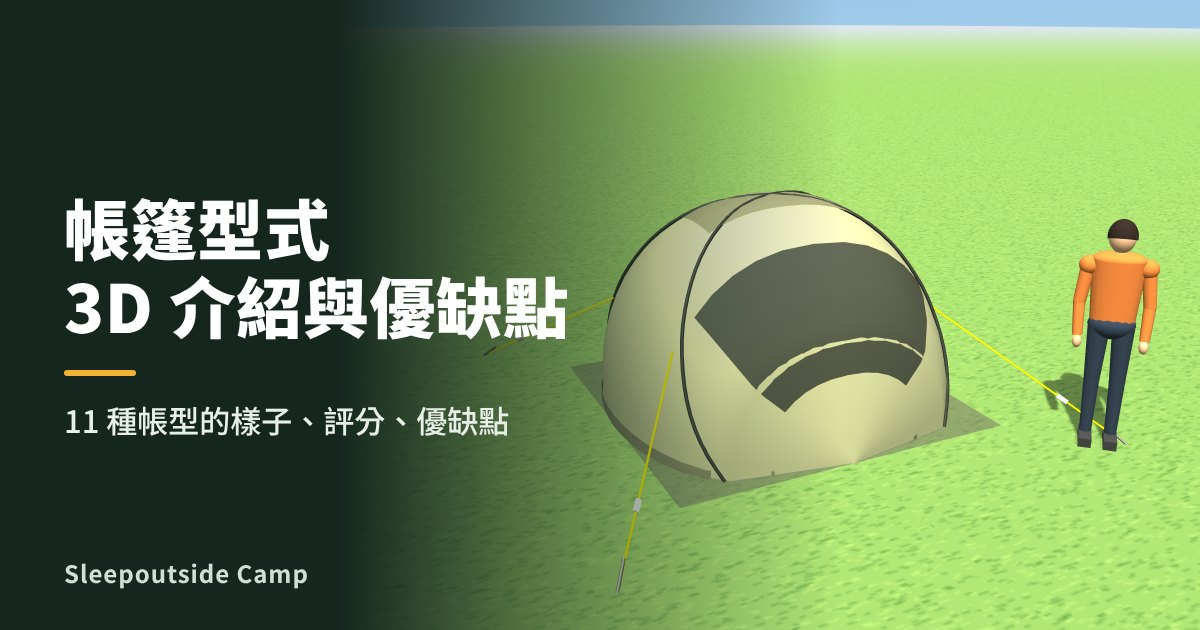
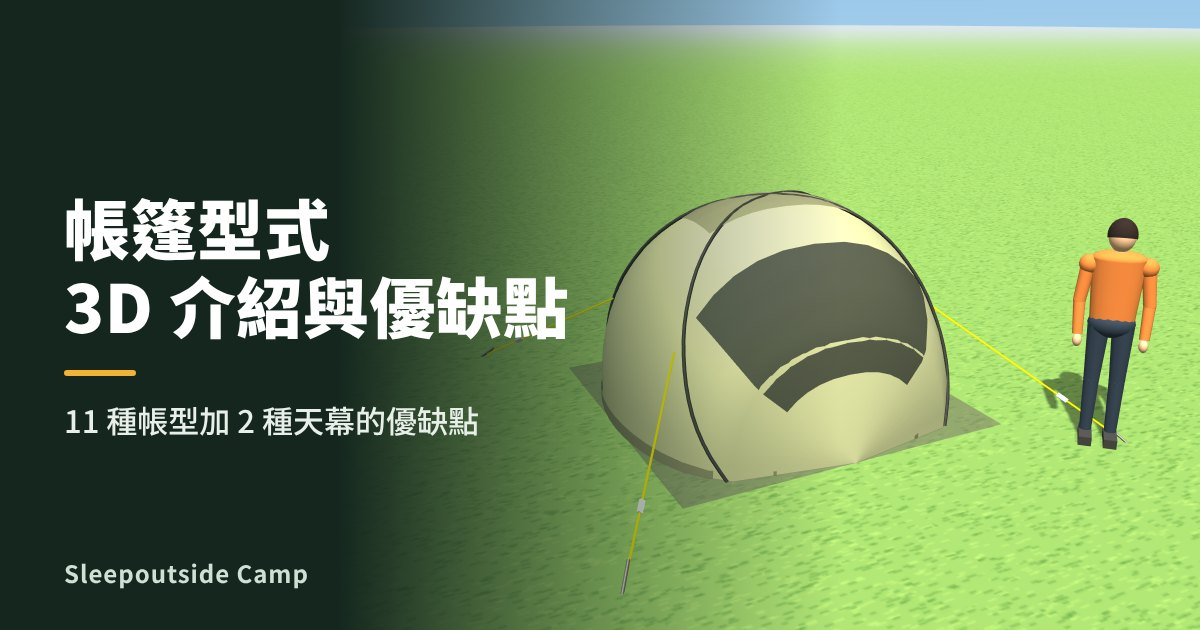
Add two tarp types to the types page and carry them into the simulator
Claude-Session: https://claude.ai/code/session_014sz8NWJGfTpPNJeVKTkoDY

diff --git a/types.html b/types.html
@@ -4,13 +4,13 @@
 <meta charset="utf-8">
 <meta name="viewport" content="width=device-width, initial-scale=1">
 <meta name="author" content="Sleepoutside Camp">
-<meta name="description" content="圓頂帳、隧道帳、一房一廳、神殿帳、充氣帳……11 種帳型的 3D 樣子、評分和優缺點一次看。">
+<meta name="description" content="圓頂帳、隧道帳、一房一廳、神殿帳、充氣帳……11 種帳型加 2 種天幕的 3D 樣子、評分和優缺點一次看。">
 <link rel="canonical" href="https://sleepoutside.github.io/tent-planner/types.html">
 <meta property="og:type" content="website">
 <meta property="og:site_name" content="Sleepoutside Camp">
 <meta property="og:locale" content="zh_TW">
 <meta property="og:title" content="帳篷型式 3D 介紹與優缺點">
-<meta property="og:description" content="圓頂帳、隧道帳、一房一廳、神殿帳、充氣帳……11 種帳型的 3D 樣子、評分和優缺點一次看。">
+<meta property="og:description" content="圓頂帳、隧道帳、一房一廳、神殿帳、充氣帳……11 種帳型加 2 種天幕的 3D 樣子、評分和優缺點一次看。">
 <meta property="og:url" content="https://sleepoutside.github.io/tent-planner/types.html">
 <meta property="og:image" content="https://sleepoutside.github.io/tent-planner/og-types.jpg">
 <meta property="og:image:width" content="1200">
@@ -84,7 +84,7 @@
 <body>
 <header>
   <h1>帳篷型式 3D 介紹</h1>
-  <p>十一種常見帳型的概念造型與優缺點，拖曳畫面可以轉著看。</p>
+  <p>十一種常見帳型和兩種天幕的概念造型與優缺點，拖曳畫面可以轉著看。</p>
   <nav class="navcards" aria-label="其他頁面"><a href="index.html">搭設模擬<small>放不放得下</small></a><a href="fire.html">焚火安全<small>距離與風向</small></a><a href="sleep.html">帳內睡鋪<small>睡得下幾人</small></a></nav>
 </header>
 <main>
@@ -175,7 +175,17 @@ var TYPES=[
   size:'約 250 × 110 × 高 100 cm（含前庭）',cap:'1 人',time:'5–10 分鐘',crew:'1 人',r:[4,1,4,5,3,3],
   pros:['重量輕、收納小，可以背著走，也適合機車或單車旅行','佔地小，找營地容易','低矮的流線外型，抗風好'],
   cons:['裡面只能坐著或躺著','裝備多半要放在前庭','輕量布料比較薄，使用時要小心','內外帳距離近，容易結露'],
-  fit:'登山、徒步、單車或機車旅行等需要自己背負裝備的人。'}
+  fit:'登山、徒步、單車或機車旅行等需要自己背負裝備的人。'},
+ {id:'tarpHexa',name:'蝶形／六角天幕',lead:'兩支主柱撐起一片六角形的布，線條最好看的遮蔽。',m:{L:440,W:420,H:240,shape:'hexa',tarp:true,color:0xc7a56c},
+  size:'約 440 × 420 cm，主柱高 240 cm',cap:'遮蔽 4–6 人',time:'10–15 分鐘',crew:'1–2 人',r:[4,2,3,5,4,5],
+  pros:['只要兩支主柱，零件少、收納小','曲線邊緣讓布面繃得緊，不容易積水','四面通透，夏天最涼快','可以壓低一側擋風或擋西曬'],
+  cons:['有效遮蔽面積比同尺寸的方形天幕小','營繩往外拉得遠，實際佔地比布面大很多','側面沒有遮擋，斜雨和冷風擋不住','一個人立主柱需要一點技巧'],
+  fit:'帳篷沒有客廳、想加一塊遮陽遮雨空間，又在意收納體積的人。'},
+ {id:'tarpRect',name:'方形天幕',lead:'長方形的布配上四到六支營柱，遮蔽面積最實在。',m:{L:400,W:300,H:220,shape:'rect',tarp:true,color:0xd9c7a3},
+  size:'約 400 × 300 cm，主柱高 220 cm',cap:'遮蔽 4–8 人',time:'15–20 分鐘',crew:'2 人',r:[3,4,2,4,4,5],
+  pros:['同樣的布面，遮蔽面積比蝶形大','四個角都有營柱，邊緣高度夠，人可以站著走動','搭法變化多：可以放下一側當牆，或搭成各種斜面','容易和帳篷、車子連接'],
+  cons:['營柱和營繩比較多，搭設較花時間','布面平，沒拉好容易積水，下雨要壓低一角排水','受風面積大，強風時要多加營繩或直接收起來','零件多，收納體積比蝶形大'],
+  fit:'人數多、需要一個大客廳，或想把天幕和帳篷、車子連在一起用的人。'}
 ];
 
 /* ---------- builders shared with the simulator (copied from index.html by tools/build.py) ---------- */
@@ -517,6 +527,49 @@ function car(type){
   bx(.03,.11,.42,std(0xf4f4f0),hl+.05,.4,0); bx(.03,.11,.42,std(0xf4f4f0),-hl-.05,.4,0);
   return g;
 }
+function buildTarp1(){
+  while(tarpG.children.length){ var o=tarpG.children[0]; tarpG.remove(o); dispose(o); }
+  tarpMeshes=[]; tarpPegs=[]; tarpPlan=[]; tarpOutMat=null;
+  var t=S.tarp; if(!t){ redraw(); return; }
+  var L=t.L/100,W=t.W/100,hF=t.H/100,hR=(t.H2||t.H)/100,hl=L/2,hw=W/2,hexa=t.shape==='hexa',cxp=hexa?L*.22:hl,hc=hexa?Math.min(1.2,hR*.55):Math.min(1.6,hR*.75),sag=hexa?.2:.12,i;
+  tarpTop=Math.max(hF,hR);
+  function add(o){ tarpG.add(o); return o; }
+  function hp(x){ return hR+(hF-hR)*(x+hl)/L; }
+  function wh(x){ var a=Math.abs(x); return a<=cxp?hw:Math.max(.001,hw*(hl-a)/(hl-cxp)); }
+  function he(x){ var a=Math.abs(x); if(!hexa||a<=cxp) return hc; var k=(a-cxp)/(hl-cxp); return hc+(hp(x)-hc)*k; }
+  var mat=new THREE.MeshStandardMaterial({color:t.color,roughness:.9,side:THREE.DoubleSide});
+  var cloth=add(gridMesh(function(u,v){
+    var x=(u-.5)*L,w=wh(x),z=(v*2-1)*w,rd=hp(x)-sag*(1-Math.pow(2*x/L,2)),ed=he(x);
+    return P(x,rd-(rd-ed)*Math.pow(Math.abs(z)/Math.max(w,.001),1.15),z);
+  },28,14,mat)); cloth.castShadow=true; tarpMeshes.push(cloth);
+  var poleMat=std(0x50544f,{metalness:.5,roughness:.45}),ropes=[];
+  [[hl,hF],[-hl,hR]].forEach(function(p){
+    var sx=p[0]>0?1:-1,h=p[1]; add(limb(P(p[0],0,0),P(p[0],h+.06,0),.017,.017,poleMat,8)).castShadow=true;
+    [1,-1].forEach(function(sz){ ropes.push(P(p[0],h,0),P(p[0]+sx*.62*h,0,sz*.62*h)); });
+  });
+  [[1,1],[1,-1],[-1,1],[-1,-1]].forEach(function(c){
+    var cx=c[0]*cxp,cz=c[1]*hw,dx=hexa?c[0]*.45:c[0]*.707,dz=hexa?c[1]*.89:c[1]*.707,d=hc*1.05;
+    if(!hexa) add(limb(P(cx,0,cz),P(cx,hc+.05,cz),.014,.014,poleMat,8)).castShadow=true;
+    ropes.push(P(cx,hc,cz),P(cx+dx*d,0,cz+dz*d));
+  });
+  for(i=0;i<ropes.length;i+=2){
+    var ra=ropes[i],rb=ropes[i+1],ent={p:P(rb.x,0,rb.z),mat:null,disc:null};
+    if(S.ropes){
+      var gp=P(rb.x,.035,rb.z),dir=gp.clone().sub(ra).normalize();
+      ent.mat=new THREE.MeshStandardMaterial({color:0xffb300,emissive:0x7a5200,roughness:.6});
+      add(limb(ra,gp,.008,.008,ent.mat,6));
+      add(limb(gp.clone().addScaledVector(dir,.1),gp.clone().addScaledVector(dir,-.1).setY(.11),.011,.011,std(0xd8d8d2,{metalness:.6,roughness:.4}),6));
+      ent.disc=new THREE.MeshBasicMaterial({color:0xffb300,transparent:true,opacity:.9});
+      var dc=add(new THREE.Mesh(new THREE.RingGeometry(.05,.085,16),ent.disc)); dc.rotation.x=-Math.PI/2; dc.position.set(rb.x,.017,rb.z);
+    }
+    tarpPegs.push(ent);
+  }
+  tarpPlan=hexa?[P(hl,0,0),P(cxp,0,hw),P(-cxp,0,hw),P(-hl,0,0),P(-cxp,0,-hw),P(cxp,0,-hw)]:[P(hl,0,hw),P(-hl,0,hw),P(-hl,0,-hw),P(hl,0,-hw)];
+  tarpOutMat=new THREE.LineDashedMaterial({color:0x2f6b4f,dashSize:.12,gapSize:.08});
+  var ol=new THREE.LineLoop(new THREE.BufferGeometry().setFromPoints(tarpPlan.map(function(p){return P(p.x,.022,p.z)}).concat([P(tarpPlan[0].x,.022,tarpPlan[0].z)])),tarpOutMat); ol.computeLineDistances(); add(ol);
+  if(S.labels){ var tl=label('天幕 '+t.L+' × '+t.W+' cm',.9,'rgba(92,72,40,.92)'); tl.position.set(0,tarpTop+.4,0); add(tl); }
+  placeTarp();
+}
 var CARS={
   hatch:{name:'小型車',len:4.0,w:1.74,wr:.32,fo:.8,ro:.72,col:0x3f7f8c,
     top:[[-2.0,.48],[-1.99,.8],[-1.9,.98],[-1.0,1.0],[.7,.97],[1.45,.9],[1.9,.76],[2.0,.5]],
@@ -554,6 +607,8 @@ var dirty=true; function redraw(){ dirty=true; }
 /* state the borrowed builders expect */
 var S={tent:null,rot:0,tx:0,tz:0,xray:false,margin:60,labels:false,ropes:true,wx:'sunny',mode:'single',pg:'m',ph:170,sL:40,sW:40,siteType:'grass'};
 var WX={sunny:{}},siteY=0,areaNo=0;
+var tarpG=new THREE.Group(),tarpMeshes=[],tarpPegs=[],tarpPlan=[],tarpOutMat=null,tarpTop=0; scene.add(tarpG);
+function placeTarp(){ tarpG.position.set(0,0,0); tarpG.rotation.y=0; }
 var tentG=new THREE.Group(),extraG=new THREE.Group(),personG=new THREE.Group(),tentMeshes=[],outlineMat=null,ropeMat=null,shellMat=null,zoneMat=null,ropeObjs=[];
 scene.add(tentG,extraG,personG);
 function isArea(){ return false; }
@@ -588,9 +643,12 @@ function buildRooftop(m){
 /* ---------- show one type ---------- */
 var cam={az:.75,el:.34,r:10,target:new THREE.Vector3(0,.9,0)},spin=true,cur=null;
 function show(t){
-  cur=t; clearG(extraG); clearG(tentG); tentMeshes=[];
+  cur=t; clearG(extraG); clearG(tentG); tentMeshes=[]; S.tarp=null; clearG(tarpG);
   var m=t.m,L=m.L/100,W=m.W/100,H=m.H/100,px=L/2+.5,pz=-(W/2+.5),top=H;
-  if(m.shape){
+  if(m.tarp){
+    S.tarp={id:t.id,L:m.L,W:m.W,H:m.H,shape:m.shape,color:m.color}; buildTarp1(); if(tarpOutMat) tarpOutMat.visible=false;
+    tarpG.traverse(function(o){ if(o.geometry&&o.geometry.type==='RingGeometry') o.visible=false; });
+  }else if(m.shape){
     S.tent={id:t.id,brand:'',name:t.name,L:m.L,W:m.W,H:m.H,shape:m.shape,color:m.color,inner:m.inner,wall:m.wall};
     buildTent1();
     [outlineMat,ropeMat,zoneMat].forEach(function(x){ if(x) x.visible=false; });
@@ -601,7 +659,7 @@ function show(t){
   var span=Math.max(L,W,top*1.6)+(t.car?2.2:0);
   cam.r=Math.max(7.5,span*1.75+2.2)*(camera.aspect<.9?1.25:1); cam.target.set(t.car?-.9:0,Math.min(1.3,top*.42),0);
   $('tag').textContent='人物身高 170 cm';
-  var cta=$('cta'); if(t.id==='rooftop'){ cta.href='index.html'; cta.textContent='前往搭設模擬（車頂帳不在模擬範圍）→'; } else { cta.href='index.html#type-'+t.id; cta.textContent='用搭設模擬看這頂放不放得下 →'; }
+  var cta=$('cta'); if(t.id==='rooftop'){ cta.href='index.html'; cta.textContent='前往搭設模擬（車頂帳不在模擬範圍）→'; } else if(m.tarp){ cta.href='index.html#tarp-'+m.shape; cta.textContent='用搭設模擬看這張天幕放不放得下 →'; } else { cta.href='index.html#type-'+t.id; cta.textContent='用搭設模擬看這頂放不放得下 →'; }
   $('tName').textContent=t.name; $('tLead').textContent=t.lead; $('tFit').textContent=t.fit;
   var sp=$('tSpecs'); sp.textContent=''; [['常見尺寸',t.size],['適合人數',t.cap],['搭設時間',t.time],['搭設人數',t.crew]].forEach(function(x){ var d=document.createElement('div'),a=document.createElement('dt'),b=document.createElement('dd'); a.textContent=x[0]; b.textContent=x[1]; d.appendChild(a); d.appendChild(b); sp.appendChild(d); });
   var rt=$('tRates'); rt.textContent=''; ASPECTS.forEach(function(a,i){ var row=document.createElement('div'),lab=document.createElement('span'),bar=document.createElement('span'),k; row.className='rate'; lab.textContent=a; bar.className='bar'; bar.setAttribute('role','img'); bar.setAttribute('aria-label',a+' '+t.r[i]+' 分，滿分 5 分');

diff --git a/tools/tpl/types_head.html b/tools/tpl/types_head.html
@@ -4,13 +4,13 @@
 <meta charset="utf-8">
 <meta name="viewport" content="width=device-width, initial-scale=1">
 <meta name="author" content="Sleepoutside Camp">
-<meta name="description" content="圓頂帳、隧道帳、一房一廳、神殿帳、充氣帳……11 種帳型的 3D 樣子、評分和優缺點一次看。">
+<meta name="description" content="圓頂帳、隧道帳、一房一廳、神殿帳、充氣帳……11 種帳型加 2 種天幕的 3D 樣子、評分和優缺點一次看。">
 <link rel="canonical" href="https://sleepoutside.github.io/tent-planner/types.html">
 <meta property="og:type" content="website">
 <meta property="og:site_name" content="Sleepoutside Camp">
 <meta property="og:locale" content="zh_TW">
 <meta property="og:title" content="帳篷型式 3D 介紹與優缺點">
-<meta property="og:description" content="圓頂帳、隧道帳、一房一廳、神殿帳、充氣帳……11 種帳型的 3D 樣子、評分和優缺點一次看。">
+<meta property="og:description" content="圓頂帳、隧道帳、一房一廳、神殿帳、充氣帳……11 種帳型加 2 種天幕的 3D 樣子、評分和優缺點一次看。">
 <meta property="og:url" content="https://sleepoutside.github.io/tent-planner/types.html">
 <meta property="og:image" content="https://sleepoutside.github.io/tent-planner/og-types.jpg">
 <meta property="og:image:width" content="1200">
@@ -84,7 +84,7 @@
 <body>
 <header>
   <h1>帳篷型式 3D 介紹</h1>
-  <p>十一種常見帳型的概念造型與優缺點，拖曳畫面可以轉著看。</p>
+  <p>十一種常見帳型和兩種天幕的概念造型與優缺點，拖曳畫面可以轉著看。</p>
   <nav class="navcards" aria-label="其他頁面"><a href="index.html">搭設模擬<small>放不放得下</small></a><a href="fire.html">焚火安全<small>距離與風向</small></a><a href="sleep.html">帳內睡鋪<small>睡得下幾人</small></a></nav>
 </header>
 <main>
@@ -175,5 +175,15 @@ var TYPES=[
   size:'約 250 × 110 × 高 100 cm（含前庭）',cap:'1 人',time:'5–10 分鐘',crew:'1 人',r:[4,1,4,5,3,3],
   pros:['重量輕、收納小，可以背著走，也適合機車或單車旅行','佔地小，找營地容易','低矮的流線外型，抗風好'],
   cons:['裡面只能坐著或躺著','裝備多半要放在前庭','輕量布料比較薄，使用時要小心','內外帳距離近，容易結露'],
-  fit:'登山、徒步、單車或機車旅行等需要自己背負裝備的人。'}
+  fit:'登山、徒步、單車或機車旅行等需要自己背負裝備的人。'},
+ {id:'tarpHexa',name:'蝶形／六角天幕',lead:'兩支主柱撐起一片六角形的布，線條最好看的遮蔽。',m:{L:440,W:420,H:240,shape:'hexa',tarp:true,color:0xc7a56c},
+  size:'約 440 × 420 cm，主柱高 240 cm',cap:'遮蔽 4–6 人',time:'10–15 分鐘',crew:'1–2 人',r:[4,2,3,5,4,5],
+  pros:['只要兩支主柱，零件少、收納小','曲線邊緣讓布面繃得緊，不容易積水','四面通透，夏天最涼快','可以壓低一側擋風或擋西曬'],
+  cons:['有效遮蔽面積比同尺寸的方形天幕小','營繩往外拉得遠，實際佔地比布面大很多','側面沒有遮擋，斜雨和冷風擋不住','一個人立主柱需要一點技巧'],
+  fit:'帳篷沒有客廳、想加一塊遮陽遮雨空間，又在意收納體積的人。'},
+ {id:'tarpRect',name:'方形天幕',lead:'長方形的布配上四到六支營柱，遮蔽面積最實在。',m:{L:400,W:300,H:220,shape:'rect',tarp:true,color:0xd9c7a3},
+  size:'約 400 × 300 cm，主柱高 220 cm',cap:'遮蔽 4–8 人',time:'15–20 分鐘',crew:'2 人',r:[3,4,2,4,4,5],
+  pros:['同樣的布面，遮蔽面積比蝶形大','四個角都有營柱，邊緣高度夠，人可以站著走動','搭法變化多：可以放下一側當牆，或搭成各種斜面','容易和帳篷、車子連接'],
+  cons:['營柱和營繩比較多，搭設較花時間','布面平，沒拉好容易積水，下雨要壓低一角排水','受風面積大，強風時要多加營繩或直接收起來','零件多，收納體積比蝶形大'],
+  fit:'人數多、需要一個大客廳，或想把天幕和帳篷、車子連在一起用的人。'}
 ];

diff --git a/tools/tpl/types_tail.js b/tools/tpl/types_tail.js
@@ -18,6 +18,8 @@ var dirty=true; function redraw(){ dirty=true; }
 /* state the borrowed builders expect */
 var S={tent:null,rot:0,tx:0,tz:0,xray:false,margin:60,labels:false,ropes:true,wx:'sunny',mode:'single',pg:'m',ph:170,sL:40,sW:40,siteType:'grass'};
 var WX={sunny:{}},siteY=0,areaNo=0;
+var tarpG=new THREE.Group(),tarpMeshes=[],tarpPegs=[],tarpPlan=[],tarpOutMat=null,tarpTop=0; scene.add(tarpG);
+function placeTarp(){ tarpG.position.set(0,0,0); tarpG.rotation.y=0; }
 var tentG=new THREE.Group(),extraG=new THREE.Group(),personG=new THREE.Group(),tentMeshes=[],outlineMat=null,ropeMat=null,shellMat=null,zoneMat=null,ropeObjs=[];
 scene.add(tentG,extraG,personG);
 function isArea(){ return false; }
@@ -52,9 +54,12 @@ function buildRooftop(m){
 /* ---------- show one type ---------- */
 var cam={az:.75,el:.34,r:10,target:new THREE.Vector3(0,.9,0)},spin=true,cur=null;
 function show(t){
-  cur=t; clearG(extraG); clearG(tentG); tentMeshes=[];
+  cur=t; clearG(extraG); clearG(tentG); tentMeshes=[]; S.tarp=null; clearG(tarpG);
   var m=t.m,L=m.L/100,W=m.W/100,H=m.H/100,px=L/2+.5,pz=-(W/2+.5),top=H;
-  if(m.shape){
+  if(m.tarp){
+    S.tarp={id:t.id,L:m.L,W:m.W,H:m.H,shape:m.shape,color:m.color}; buildTarp1(); if(tarpOutMat) tarpOutMat.visible=false;
+    tarpG.traverse(function(o){ if(o.geometry&&o.geometry.type==='RingGeometry') o.visible=false; });
+  }else if(m.shape){
     S.tent={id:t.id,brand:'',name:t.name,L:m.L,W:m.W,H:m.H,shape:m.shape,color:m.color,inner:m.inner,wall:m.wall};
     buildTent1();
     [outlineMat,ropeMat,zoneMat].forEach(function(x){ if(x) x.visible=false; });
@@ -65,7 +70,7 @@ function show(t){
   var span=Math.max(L,W,top*1.6)+(t.car?2.2:0);
   cam.r=Math.max(7.5,span*1.75+2.2)*(camera.aspect<.9?1.25:1); cam.target.set(t.car?-.9:0,Math.min(1.3,top*.42),0);
   $('tag').textContent='人物身高 170 cm';
-  var cta=$('cta'); if(t.id==='rooftop'){ cta.href='index.html'; cta.textContent='前往搭設模擬（車頂帳不在模擬範圍）→'; } else { cta.href='index.html#type-'+t.id; cta.textContent='用搭設模擬看這頂放不放得下 →'; }
+  var cta=$('cta'); if(t.id==='rooftop'){ cta.href='index.html'; cta.textContent='前往搭設模擬（車頂帳不在模擬範圍）→'; } else if(m.tarp){ cta.href='index.html#tarp-'+m.shape; cta.textContent='用搭設模擬看這張天幕放不放得下 →'; } else { cta.href='index.html#type-'+t.id; cta.textContent='用搭設模擬看這頂放不放得下 →'; }
   $('tName').textContent=t.name; $('tLead').textContent=t.lead; $('tFit').textContent=t.fit;
   var sp=$('tSpecs'); sp.textContent=''; [['常見尺寸',t.size],['適合人數',t.cap],['搭設時間',t.time],['搭設人數',t.crew]].forEach(function(x){ var d=document.createElement('div'),a=document.createElement('dt'),b=document.createElement('dd'); a.textContent=x[0]; b.textContent=x[1]; d.appendChild(a); d.appendChild(b); sp.appendChild(d); });
   var rt=$('tRates'); rt.textContent=''; ASPECTS.forEach(function(a,i){ var row=document.createElement('div'),lab=document.createElement('span'),bar=document.createElement('span'),k; row.className='rate'; lab.textContent=a; bar.className='bar'; bar.setAttribute('role','img'); bar.setAttribute('aria-label',a+' '+t.r[i]+' 分，滿分 5 分');

diff --git a/index.html b/index.html
@@ -1962,6 +1962,17 @@ $('bPersp').addEventListener('click',function(){ cam.el=0.44; cam.az=0.78; fitCa
 var TYPE_PRESET={dome:[270,270,170,'dome',0xa9ad84],domeVest:[500,280,150,'domeVest',0xb9a886],tworoom:[600,380,210,'tworoom',0x8c7b62],tunnel:[640,300,195,'tunnel',0xc7a56c],
   bell:[400,400,250,'bell',0xe8dfc8],cabin:[300,300,210,'cabin',0x6d8794],carside:[250,250,200,'carside',0xb9a886],pyramid:[400,400,250,'pyramid',0xd8c9a3],air:[600,320,200,'air',0x7d9aa6],solo:[250,110,100,'domeVest',0x6f8160]};
 function applyTypeHash(){
+  var tm=/^#tarp-(hexa|rect)$/.exec(location.hash||'');
+  if(tm){
+    if(isArea()) setMode('single');
+    var tc=TARPS[TARPS.length-1],hx=tm[1]==='hexa'; tc.L=hx?440:400; tc.W=hx?420:300; tc.H=hx?240:220; tc.shape=tm[1];
+    $('tL').value=tc.L; $('tW').value=tc.W; $('tShape').value=tc.shape;
+    var ts=$('tarpSel'); S.tarp=null; S.rot=0; ts.value='tcustom'; ts.dispatchEvent(new Event('change'));
+    var d=S.tent.L/200+tc.L/200-.6,c=Math.round((d+tc.L/200-S.tent.L/200)/2*20)/20,sizes=[[S.sL,S.sW],[8,8],[10,8],[12,8],[12,10],[14,10],[15,12]],i;
+    S.tx=-c; S.tz=0; S.ttx=Math.round((d-c)*20)/20; S.ttz=0; S.trot=0;
+    for(i=0;i<sizes.length;i++){ if(sizes[i][0]<S.sL||sizes[i][1]<S.sW) continue; S.sL=sizes[i][0]; S.sW=sizes[i][1]; $('sL').value=S.sL; $('sW').value=S.sW; siteChanged(); placeTent(); placeTarp(); updateFit(); if(!/bad/.test($('status').className)) break; }
+    setActive('tarp'); fitCam(); return;
+  }
   var mt=/^#type-([A-Za-z]+)$/.exec(location.hash||''),q=mt&&TYPE_PRESET[mt[1]]; if(!q) return;
   if(isArea()) setMode('single');
   var c=TENTS[TENTS.length-1]; c.L=q[0]; c.W=q[1]; c.H=q[2]; c.shape=q[3]; c.color=q[4];

diff --git a/tools/make_og.py b/tools/make_og.py
@@ -12,7 +12,7 @@ THREE = os.environ.get('THREE_JS')
 CHROME = os.environ.get('CHROME', '/usr/bin/google-chrome')
 ARGS = ['--no-sandbox', '--use-gl=swiftshader', '--enable-unsafe-swiftshader', '--ignore-gpu-blocklist']
 PAGES = {'index': ('帳篷 × 營位', '3D 搭設模擬', '選帳、選營位，放不放得下一眼就知道'),
-         'types': ('帳篷型式', '3D 介紹與優缺點', '11 種帳型的樣子、評分、優缺點'),
+         'types': ('帳篷型式', '3D 介紹與優缺點', '11 種帳型加 2 種天幕的優缺點'),
          'fire': ('焚火安全模擬', '', '焚火台、燃料、風向與安全距離'),
          'sleep': ('帳內睡鋪模擬', '', '這頂帳到底睡得下幾個人')}
 WIDE = '.stage > *:not(canvas){display:none!important} .stage{height:820px!important}'

diff --git a/tools/build.py b/tools/build.py
@@ -38,7 +38,7 @@ BASE = ['rnd', 'tex', 'label', 'dispose', 'profile', 'loft', 'sections', 'shade'
 NOTE = '/* ---------- builders shared with the simulator (copied from index.html by tools/build.py) ---------- */\n'
 
 # types.html = head template + builders + tail script
-wr('types.html', rd(TPL, 'types_head.html') + '\n' + NOTE + funcs(BASE + ['buildPerson', 'car']) + '\n'
+wr('types.html', rd(TPL, 'types_head.html') + '\n' + NOTE + funcs(BASE + ['buildPerson', 'car', 'buildTarp1']) + '\n'
    + block('var CARS=') + ';\n' + rd(TPL, 'types_tail.js'))
 
 # fire.html

diff --git a/HANDOFF.md b/HANDOFF.md
@@ -25,7 +25,7 @@
 | 檔案 | 說明 |
 |---|---|
 | `index.html` | 搭設模擬（主頁，約 2,000 行）。手寫，直接編輯 |
-| `types.html` | 帳型 3D 介紹與優缺點（11 種）。**產生檔** |
+| `types.html` | 帳型 3D 介紹與優缺點（11 種帳型＋2 種天幕）。**產生檔** |
 | `fire.html` | 焚火安全模擬。**產生檔** |
 | `sleep.html` | 帳內睡鋪模擬。**產生檔** |
 | `og-*.jpg` | 四頁的分享預覽圖（1200×630） |
@@ -77,7 +77,7 @@ git add -A && git commit -m "..." && git push origin main && git push origin mai
 - **放置判斷**：`updateFit()` 產生上方結果列，內部呼叫 `tentFit()`、`tarpCheck()`、`fireCheck()`（焚火台 3 m／4.5 m）、`matCheck()`（睡鋪）。帳篷重疊用 `bodyRect()` + `rectsOverlap()`（只算帳體，不算營繩）。
 - **render-on-dirty**：畫面只有在 `redraw()` 被呼叫後才重畫；下雨、水面等動畫用 `anim`／`tick(dt)`。
 - **網址參數**：
-  - `#type-<id>`：從帳型頁帶入帳型（`applyTypeHash`）。
+  - `#type-<id>`：從帳型頁帶入帳型（`applyTypeHash`）；`#tarp-hexa`／`#tarp-rect`：帶入自訂天幕。
   - `#s=<base64url JSON>`：單一營位分享連結（`singleData`／`singleApply`）。
   - `#a=<base64url JSON>`：包區分享連結（`areaData`／`areaReplace`）。
   - 讀取分享資料時所有數值都經過範圍限制；格式壞掉會跳提示而不是讓頁面出錯。**改動 `S` 的欄位時，記得同步更新 `singleData` 與 `singleApply`，並保持舊連結可讀。**
@@ -88,7 +88,7 @@ git add -A && git commit -m "..." && git push origin main && git push origin mai
 
 三頁共用同一套寫法：自己的場景與鏡頭，加上一組「假的」全域變數（`S`、`WX`、`siteY`、`isArea()`、`placeTent()` 等）讓複製過來的 `buildTent1()` 能運作。若 `buildTent1()` 之後用到新的全域變數，三個範本都要補上對應的假變數，否則該頁會壞（`tools/smoke.py` 會抓到）。
 
-- **types.html**：`TYPES` 資料含 11 種帳型的尺寸、六項評分、優缺點。車頂帳只在這頁展示，不進搭設模擬。按鈕連到 `index.html#type-<id>`。
+- **types.html**：`TYPES` 資料含 11 種帳型與 2 種天幕的尺寸、六項評分、優缺點。車頂帳只在這頁展示，不進搭設模擬。按鈕連到 `index.html#type-<id>`；天幕連到 `index.html#tarp-hexa`／`#tarp-rect`。
 - **fire.html**：六種焚火台、五種燃料、風向風力；判斷邏輯在 `judge()`。
 - **sleep.html**：內帳範圍由 `sleepArea()`（複製自 `index.html`）決定；床墊可混搭、拖曳、轉向，`autoArrange()` 自動排列。
 

diff --git a/README.md b/README.md
@@ -19,7 +19,7 @@
 - 桌椅與燈：兩張克米特椅型折疊椅、四腳方桌、汽化燈（夜晚與黃昏會發光），可選尺寸與顏色
 - 營繩與營釘範圍檢查、可選性別與身高的人物、可選車型的車輛、可選花色體型的貓狗，都能拖曳擺放
 
-另有「帳型 3D 介紹」頁（types.html）：十一種帳型的概念造型、六項評分與優缺點。
+另有「帳型 3D 介紹」頁（types.html）：十一種帳型加兩種天幕的概念造型、六項評分與優缺點。
 
 3D 外型為依結構類型製作的通用造型，非各型號的複刻。資訊僅供參考，請依官方資訊為準。
 
